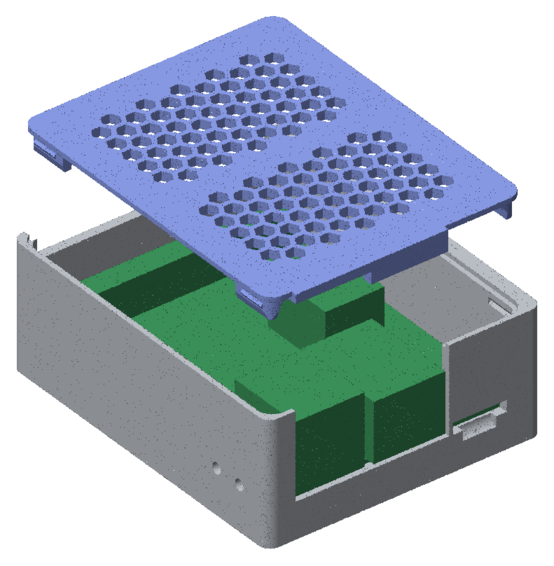
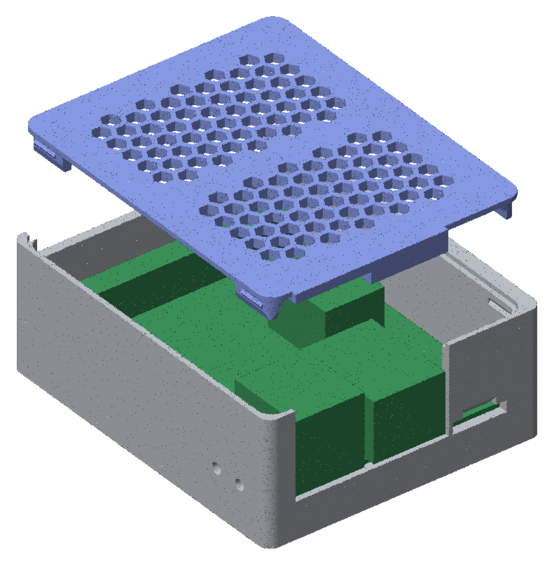
fix(case): microSD thumb scoop moves above the slot
Print feedback: the card's grip edge is on the top side, so the scoop
under the slot was useless. It is now a wedge above the slot (sloped
ceiling, prints without support). The strip between the RJ45 opening and
the slot stays.

Claude-Session: https://claude.ai/code/session_01NRMLBLuUy5566yU1ZeqFdZ

Changed region(s): [[0.8285, 0.6908, 0.9206, 0.7809]]

diff --git a/case/tests/test_base.py b/case/tests/test_base.py
@@ -56,7 +56,17 @@ class TestDefaultBase:
         assert not solid_bz(base, 38.3, y, 7.0)
         assert solid_bz(base, 38.6, y, 7.0)
         assert not solid_bz(base, 45.0, y, 1.0)  # microSD slot
-        assert solid_bz(base, 45.0, y, 2.3)  # above the slot
+        assert solid_bz(base, 45.0, y, 4.0)  # above the slot and its scoop
+
+    def test_has_the_thumb_scoop_above_the_microsd_slot(self, base):
+        _, _, sz0, sz1 = P.SD_SLOT
+        x = sum(P.SCOOP_X) / 2
+        y = P.OUTER[2] + 0.3  # just inside the outer face
+        assert not solid_bz(base, x, y, sz1 + 0.5)  # scoop above the slot
+        assert solid_bz(base, x, y, sz0 - 0.5)  # nothing below it
+        assert solid_bz(
+            base, x, P.OUTER[2] + P.SCOOP_DEPTH + 0.2, sz1 + 0.3
+        )  # only SCOOP_DEPTH deep
 
     def test_has_one_usb_and_rj45_opening_open_to_the_wall_top(self, base):
         y = -1.5

diff --git a/case/p4_case/base.py b/case/p4_case/base.py
@@ -120,8 +120,18 @@ def _cable_wall_openings() -> Part:
         block(cx0, cx1, y0, y1, P.OPENING_BOTTOM, board_z(P.TOP) + 1),
         block(sx0, sx1, y0, y1, sz0, sz1),
     ]
-    scoop_y = P.OUTER[2] - (P.SCOOP_R - P.SCOOP_DEPTH)
-    cuts.append(x_cylinder(scoop_y, sz0, 2 * P.SCOOP_R, *P.SCOOP_X))
+    # thumb scoop on the slot's top edge: a wedge into the outer face (YZ profile, extruded along X)
+    face = P.OUTER[2]
+    wedge = [
+        (face - EPS, sz1 - EPS),
+        (face + P.SCOOP_DEPTH, sz1 - EPS),
+        (face - EPS, sz1 + P.SCOOP_RISE),
+    ]
+    sx_a, sx_b = P.SCOOP_X
+    prism = extrude(
+        Plane.YZ * Polygon(*wedge, align=None), (sx_b - sx_a) / 2, both=True
+    )
+    cuts.append(Pos((sx_a + sx_b) / 2, 0, 0) * prism)
     return Part() + cuts
 
 

diff --git a/case/p4_case/params.py b/case/p4_case/params.py
@@ -66,8 +66,10 @@ LINTEL_SPLIT_X = (
     FACTS["usb"].x1 + FACTS["rj45"].x0
 ) / 2  # where the lintel steps from the USB to the RJ45 height
 SCOOP_X = (41.5, 49.0)
-SCOOP_R = 2.4
-SCOOP_DEPTH = 1.5  # into the cable wall's outer face, at the slot's bottom edge
+# above the slot, where the card's grip edge is (print feedback); deepest at the slot's top edge, its ceiling slopes
+# back out to the face at about 40 degrees from vertical so it prints without support
+SCOOP_DEPTH = 1.5
+SCOOP_RISE = 1.8
 
 # --- header-end slot and ribbon-plug room (5.2) ---
 HEADER_SLOT_X = (0.5, 54.5)

diff --git a/docs/superpowers/specs/2026-11-02-p4-case-design.md b/docs/superpowers/specs/2026-11-02-p4-case-design.md
@@ -163,7 +163,8 @@ sits inside the walls (2 mm total), so its underside is at case Z 25.6.
       wide) and no strip above them (it would be 1 mm tall): both were too thin to print well.
     - The lid's lintel (5.3) closes the opening above the connectors.
   - **microSD:** the slot runs from 0.6 mm below the board's top face to 2 mm above it, across X 39.2–51.4. It has a
-    thumb scoop in the outer face below it, so a fingernail or pencil can push the card in and out.
+    thumb scoop in the outer face above it, where the card's grip edge is (print feedback: below it was useless). Its
+    ceiling slopes back to the face at about 40° from vertical, so it prints without support.
   - The connector faces end up 0.5–0.8 mm behind the outer face.
   - The shared opening has no top, so it needs no bridge; the microSD slot's top bridges 12.2 mm.
 - **Header-end wall (Y = 68 edge):**
